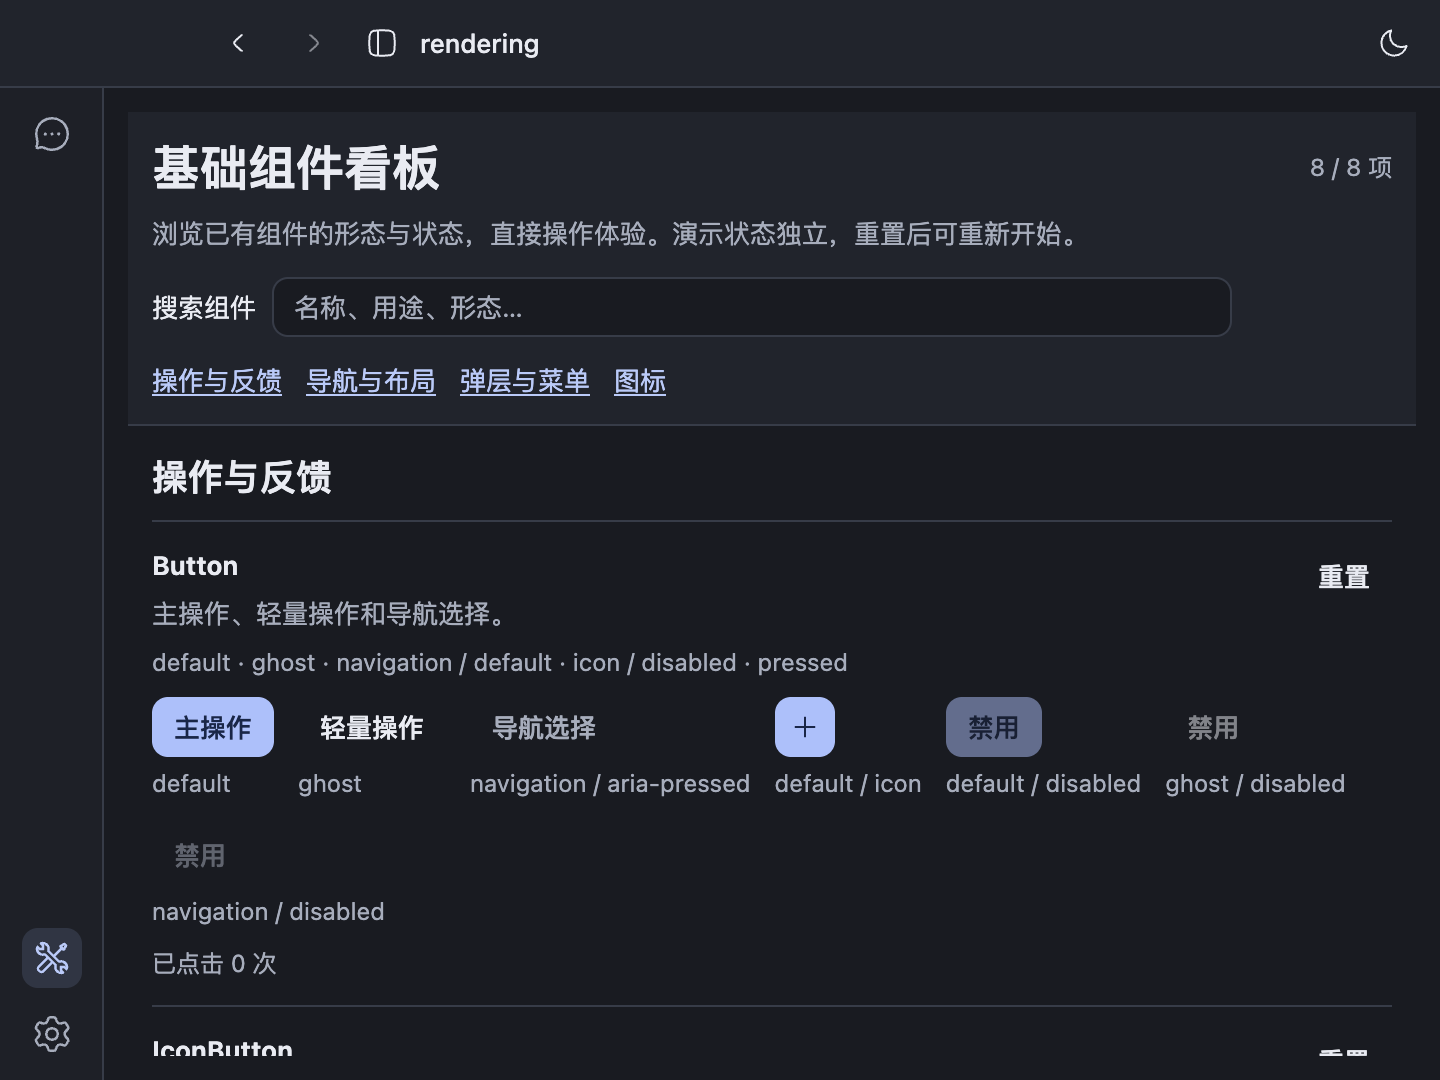
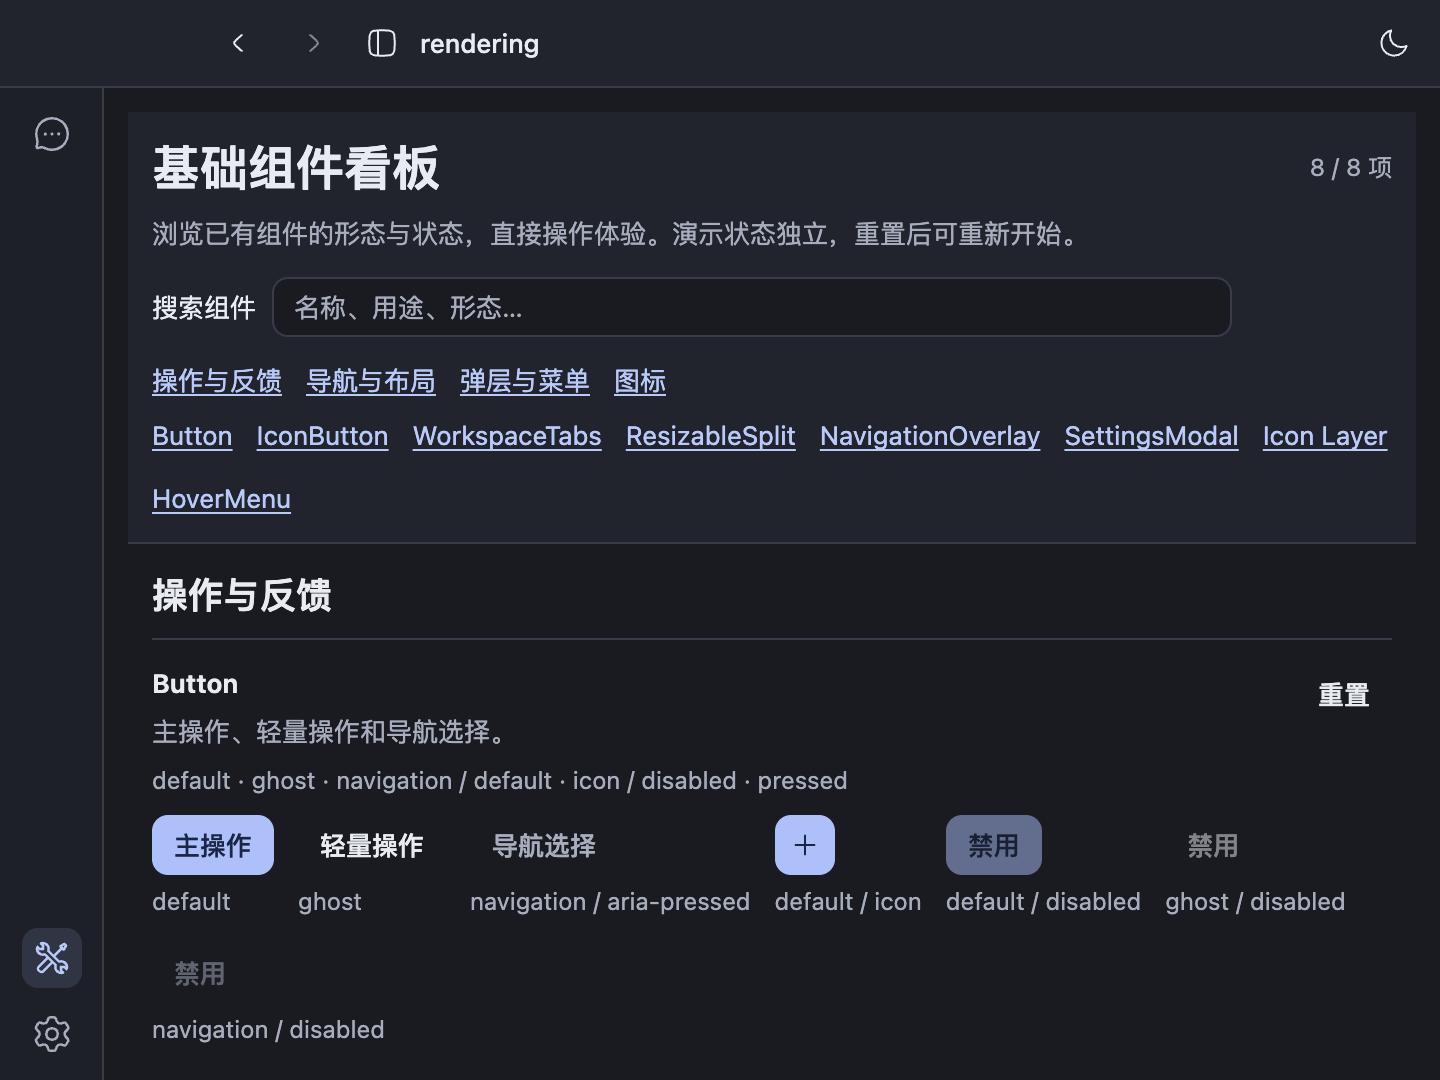
fix(renderer): retain attachment input before developer navigation

diff --git a/src/app/renderer/workbench/composer-continuity.test.ts b/src/app/renderer/workbench/composer-continuity.test.ts
@@ -1,13 +1,22 @@
 // @vitest-environment happy-dom
+import { QueryClient, QueryClientProvider } from "@tanstack/react-query";
 import type { Editor } from "@tiptap/core";
 import { closeHistory } from "@tiptap/pm/history";
+import { Slice } from "@tiptap/pm/model";
 import { act, createElement } from "react";
 import { createRoot, type Root } from "react-dom/client";
 import { afterEach, expect, it, vi } from "vitest";
 import { RuntimeViewSchema } from "../../../modules/execution/contracts/public";
-import { DraftSchema } from "../../../modules/input/contracts/public";
+import {
+  AttachmentSchema,
+  DraftSchema,
+} from "../../../modules/input/contracts/public";
 import { replaceDraftText } from "../../../modules/input/renderer/public";
 import { I18nProvider } from "../../../modules/preferences/renderer/public";
+import type {
+  AttachmentBridge,
+  AttachmentReply,
+} from "../../contracts/attachments";
 import {
   type DesktopBridge,
   parseDesktopReply,
@@ -15,11 +24,17 @@ import {
 import { AppModel } from "../wiring/model";
 import { Composer } from "./composer";
 
-const mounted: { root: Root; container: HTMLElement; model: AppModel }[] = [];
+const mounted: {
+  root: Root;
+  container: HTMLElement;
+  model: AppModel;
+  client: QueryClient;
+}[] = [];
 afterEach(async () => {
-  for (const { root, container, model } of mounted.splice(0)) {
+  for (const { root, container, model, client } of mounted.splice(0)) {
     await act(() => root.unmount());
     model.dispose();
+    client.clear();
     container.remove();
   }
   vi.unstubAllGlobals();
@@ -28,6 +43,7 @@ afterEach(async () => {
 async function setup(
   phase?: "interrupted" | "allowed" | "ready",
   onChooseModel?: () => void,
+  attachments?: AttachmentBridge,
 ) {
   vi.stubGlobal("IS_REACT_ACT_ENVIRONMENT", true);
   const first = DraftSchema.parse({
@@ -78,6 +94,7 @@ async function setup(
     onCloseCancelled: () => () => {},
     completeClose: () => {},
   };
+  if (attachments) bridge.attachments = attachments;
   if (phase)
     bridge.runtime = {
       subscribe: () => () => {},
@@ -101,7 +118,10 @@ async function setup(
   const container = document.createElement("div");
   document.body.append(container);
   const root = createRoot(container);
-  mounted.push({ root, container, model });
+  const client = new QueryClient({
+    defaultOptions: { queries: { retry: false } },
+  });
+  mounted.push({ root, container, model, client });
   function thread() {
     const state = model.getSnapshot();
     if (state.kind !== "ready" || state.threadSelection.kind !== "thread")
@@ -111,13 +131,16 @@ async function setup(
   const render = () =>
     act(() =>
       root.render(
-        createElement(I18nProvider, {
-          initialSnapshot: { preference: "system", resolvedLocale: "en-US" },
-          children: createElement(Composer, {
-            key: thread().key,
-            thread: thread(),
-            model,
-            onChooseModel,
+        createElement(QueryClientProvider, {
+          client,
+          children: createElement(I18nProvider, {
+            initialSnapshot: { preference: "system", resolvedLocale: "en-US" },
+            children: createElement(Composer, {
+              key: thread().key,
+              thread: thread(),
+              model,
+              onChooseModel,
+            }),
           }),
         }),
       ),
@@ -134,7 +157,17 @@ async function setup(
     await act(() => model.selectThread(id));
     await render();
   };
-  return { model, first, second, drafts, thread, render, editor, select };
+  return {
+    model,
+    first,
+    second,
+    drafts,
+    thread,
+    render,
+    editor,
+    select,
+    container,
+  };
 }
 
 it("preserves A's middle selection and independent undo/redo across A → B → A with fresh views", async () => {
@@ -267,3 +300,77 @@ it("explains a running session without a model and offers model selection withou
   );
   expect(fixture.thread().controller.getTextSnapshot()).toBe("alpha omega");
 });
+
+it.each(["file-picker", "drop"])(
+  "keeps a pending %s insertion in its real Composer before admitting the developer view",
+  async (source) => {
+    let complete!: (reply: AttachmentReply) => void;
+    let items: import("../../../modules/input/contracts/public").Attachment[] =
+      [];
+    const request: AttachmentBridge["request"] = async (command) => {
+      if (command.kind === "choose-import" || command.kind === "import-bytes")
+        return new Promise((resolve) => {
+          complete = resolve;
+        });
+      return { kind: "attachments", items };
+    };
+    const fixture = await setup(undefined, undefined, { request });
+    const attach = Array.from(
+      fixture.container.querySelectorAll("button"),
+    ).find((button) => button.textContent === "Attach files");
+    if (!attach) throw Error("missing real attachment control");
+    let admitted = true;
+    await act(async () => {
+      if (source === "file-picker") attach.click();
+      else {
+        const event = new DragEvent("drop", {
+          bubbles: true,
+          cancelable: true,
+        });
+        Object.defineProperty(event, "dataTransfer", {
+          value: {
+            files: [new File(["text"], "pending.txt", { type: "text/plain" })],
+          },
+        });
+        const view = fixture.editor().view;
+        view.someProp("handleDrop", (handle) =>
+          handle(view, event, Slice.empty, false),
+        );
+      }
+      // Same event turn: do not depend on React's pending-state effect having run.
+      admitted = await fixture.model.prepareViewNavigation();
+    });
+    expect(admitted).toBe(false);
+    expect(fixture.editor().isEditable).toBe(true);
+    await act(() => new Promise((resolve) => setTimeout(resolve, 20)));
+    const id = crypto.randomUUID();
+    items = [
+      AttachmentSchema.parse({
+        schemaVersion: 1,
+        id,
+        token: `[[dpi-attachment:${id}]]`,
+        threadId: fixture.first.threadId,
+        name: "pending.txt",
+        mimeType: "text/plain",
+        byteLength: 4,
+        capturedAt: new Date().toISOString(),
+        source: "file",
+        status: "ready",
+        representation: "text",
+        coverageGaps: [],
+        textOnly: true,
+      }),
+    ];
+    await act(async () => {
+      complete({ kind: "attachments", items });
+      await new Promise((resolve) => setTimeout(resolve, 20));
+    });
+    expect(fixture.thread().controller.getTextSnapshot()).toContain(
+      items[0]?.token,
+    );
+    await act(async () =>
+      expect(await fixture.model.prepareViewNavigation()).toBe(true),
+    );
+    expect(fixture.model.controller).toBe(fixture.thread().controller);
+  },
+);

diff --git a/src/app/renderer/workbench/attachment-controls.tsx b/src/app/renderer/workbench/attachment-controls.tsx
@@ -32,6 +32,7 @@ import type {
 import { FileIcon, FolderIcon } from "../components/icons/common";
 
 export type AttachmentActions = {
+  canLeaveView(): boolean;
   importFiles(files: File[], source: "paste" | "drop"): void;
   handleMentionKey(event: KeyboardEvent): boolean;
 };
@@ -92,7 +93,9 @@ export function AttachmentControls({
   const [storageReport, setStorageReport] =
     useState<AttachmentStorageReport | null>(null);
   const [pending, setPending] = useState(0);
+  const pendingRequests = useRef(0);
   const [failed, setFailed] = useState<AttachmentRequestFailure | null>(null);
+  const failedRequest = useRef<AttachmentRequestFailure | null>(null);
   const [feedback, setFeedback] = useState<AttachmentRequestFailure | null>(
     null,
   );
@@ -244,12 +247,15 @@ export function AttachmentControls({
     // A new import cannot replace an unresolved required source. Only the
     // explicit retry button may resolve that specific failed request.
     if (blocking && failed && failed !== retryingFailure) return;
+    pendingRequests.current += 1;
     setPending((value) => value + 1);
     setFeedback(null);
     const reject = (reason: AttachmentFailureReason | null) => {
       const failure = { command, reason, ...(range ? { range } : {}) };
-      if (blocking) setFailed(failure);
-      else setFeedback(failure);
+      if (blocking) {
+        failedRequest.current = failure;
+        setFailed(failure);
+      } else setFeedback(failure);
     };
     try {
       const reply = await bridge.request({
@@ -263,10 +269,10 @@ export function AttachmentControls({
         await client.invalidateQueries({ queryKey: listKey });
       } else if (reply.kind === "attachments") {
         if (add) for (const item of reply.items) insert(item, range);
-        if (retryingFailure)
-          setFailed((current) =>
-            current === retryingFailure ? null : current,
-          );
+        if (retryingFailure && failedRequest.current === retryingFailure) {
+          failedRequest.current = null;
+          setFailed(null);
+        }
         await client.invalidateQueries({ queryKey: listKey });
       } else if (
         reply.kind === "image" ||
@@ -281,6 +287,7 @@ export function AttachmentControls({
     } catch {
       if (alive.current) reject(null);
     } finally {
+      pendingRequests.current -= 1;
       if (alive.current) setPending((value) => value - 1);
     }
   }
@@ -308,6 +315,15 @@ export function AttachmentControls({
     dismissMention();
   }
   useImperativeHandle(ref, () => ({
+    canLeaveView: () => {
+      const sources = imports.stateStore.getState();
+      return (
+        pendingRequests.current === 0 &&
+        !failedRequest.current &&
+        sources.pending === 0 &&
+        sources.failures.length === 0
+      );
+    },
     importFiles: (files, source) => void importFiles(files, source),
     handleMentionKey: (event) => {
       if (!searchOpen || event.isComposing) return false;
@@ -512,7 +528,13 @@ export function AttachmentControls({
               >
                 {t("attachment.retry")}
               </Button>
-              <Button variant="ghost" onClick={() => setFailed(null)}>
+              <Button
+                variant="ghost"
+                onClick={() => {
+                  failedRequest.current = null;
+                  setFailed(null);
+                }}
+              >
                 {t("attachment.dismissFailedRequest")}
               </Button>
             </>

diff --git a/src/app/renderer/wiring/model.ts b/src/app/renderer/wiring/model.ts
@@ -63,7 +63,11 @@ type RestoreReply = ReplyFor<
     { kind: "restore" | "choose-project" | "select-thread" | "new-thread" }
   >
 >;
-type EditorBoundary = { freeze: () => boolean; release: () => void };
+type EditorBoundary = {
+  freeze: () => boolean;
+  release: () => void;
+  canLeaveView?: () => boolean;
+};
 type EditorBinding = { owner: ThreadModel; boundary: EditorBoundary };
 
 export function transportFailure(traceId: string): Failure {
@@ -179,11 +183,13 @@ export class AppModel {
     const thread = this.activeThread;
     const binding = this.editorBinding;
     const generation = this.requestGeneration;
+    if (binding?.boundary.canLeaveView?.() === false) return false;
     if (binding && !binding.boundary.freeze()) return false;
     try {
       const saved = await (thread?.controller.flush() ?? Promise.resolve(true));
       return (
         saved &&
+        binding?.boundary.canLeaveView?.() !== false &&
         !this.disposed &&
         generation === this.requestGeneration &&
         this.activeThread === thread &&

diff --git a/src/app/renderer/wiring/model.test.ts b/src/app/renderer/wiring/model.test.ts
@@ -394,3 +394,28 @@ it("does not release a close freeze when a pending view navigation loses ownersh
   input.model.cancelClose();
   expect(input.isEditable()).toBe(true);
 });
+
+it("rechecks unfinished view input after the save and releases its own freeze when admission fails", async () => {
+  const receipt = deferredReceipt();
+  const input = await setup(() => receipt.promise);
+  let pending = false;
+  let editable = true;
+  input.model.attachEditorBoundary(input.controller, {
+    canLeaveView: () => !pending,
+    freeze: () => {
+      editable = false;
+      return true;
+    },
+    release: () => {
+      editable = true;
+    },
+  });
+  input.controller.edit("save with a new attachment intent");
+  const admission = input.model.prepareViewNavigation();
+  pending = true;
+  receipt.resolve(saved(1));
+  expect(await admission).toBe(false);
+  expect(editable).toBe(true);
+  pending = false;
+  expect(await input.model.prepareViewNavigation()).toBe(true);
+});

diff --git a/src/app/renderer/workbench/composer.tsx b/src/app/renderer/workbench/composer.tsx
@@ -233,6 +233,7 @@ export function Composer({
   useLayoutEffect(() => {
     if (!editor) return;
     const boundary = {
+      canLeaveView: () => attachmentActions.current?.canLeaveView() ?? true,
       freeze: () => {
         if (editor.view.composing) return false;
         editor.setEditable(false, false);

diff --git a/.scratch/component-dashboard/spec.md b/.scratch/component-dashboard/spec.md
@@ -10,7 +10,7 @@
 - 重要待决：无。工具菜单同时支持点击/键盘打开、Esc关闭、移动到菜单不闪退。
 - 工程：实施中。主 Agent 在 `codex/component-dashboard` 隔离 worktree 单写集成；01由主 Agent负责，02委派 gallery Agent，在 `/Users/louistation/.codex/worktrees/component-dashboard-gallery/d-pi` / `codex/component-dashboard-gallery` 固定同一基点实现；整段独立Spec/Standards评审。
 - 用户试用：尚未交付，认可pending。
-- 验收：真实 Router/AppModel 证明工具导航不选择/释放Thread、位置不会被无关模型通知拉回、退出可恢复会话；进入工具路由需完成原编辑冻结/flush，IME或保存失败时保留原位置；组件行为测试及隔离Electron真实渲染证明菜单悬停/键盘、全量展示、重置、弹层/页签/拖拽、light/dark与窄窗几何。
+- 验收：真实 Router/AppModel 证明工具导航不选择/释放Thread、位置不会被无关模型通知拉回、退出可恢复会话；进入工具路由需完成原编辑冻结/flush，IME、保存失败或附件/引用输入尚未完成及失败待处理时保留原位置；组件行为测试及隔离Electron真实渲染证明菜单悬停/键盘、全量展示、重置、弹层/页签/拖拽、light/dark与窄窗几何。
 - 继续边界：不补未实现组件、不接业务命令、不改执行/存储/认证，不公开发布。示例仅用本地演示状态。
 
 ## 范围与组成
